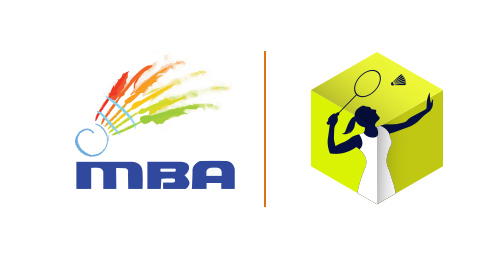
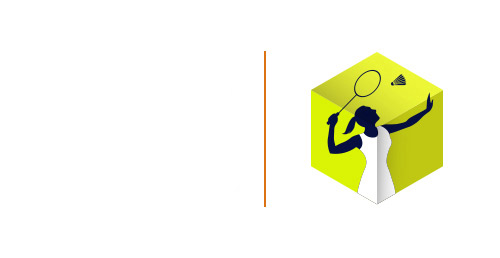
changes

Changed region(s): [[0.15, 0.2171, 0.48, 0.7442]]

diff --git a/views/content/training-development.html b/views/content/training-development.html
@@ -94,7 +94,7 @@
     </div>
 </div>
     </div>
-    <div class="row">
+    <!-- <div class="row">
 <div class="same-sec display-inline">
   <div class="col-md-4 col-sm-4 col-xs-12">
     <div class="image-box">
@@ -113,9 +113,7 @@
   </div>
 </div>
 <div class="fancy1" style="display:none;" id="image3">
-    <!-- <a id="inline">
-      <img class="st-img" src="bower_components/img/object/clos.png">
-    </a> -->
+
     <div class="text-center">
       <img src="img/Sports_United.jpg" alt="swimming" class="img-responsive" style="margin: 0 auto;">
       <a class="ptl" href="http://www.sfanow.in/img/Sports_United.jpg"  title="badminton" download>
@@ -123,6 +121,6 @@
       </a>
     </div>
 </div>
-    </div>
+    </div> -->
   </div>
   </section>

diff --git a/sass/main.scss b/sass/main.scss
@@ -449,7 +449,7 @@ a {
     margin-bottom: 20px;
     ul {
         li {
-            padding: 0 15px;
+              margin: 0 11px 0 0;
         }
     }
 }
